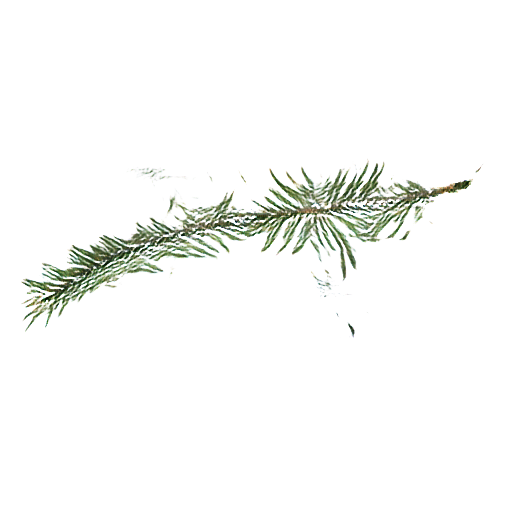
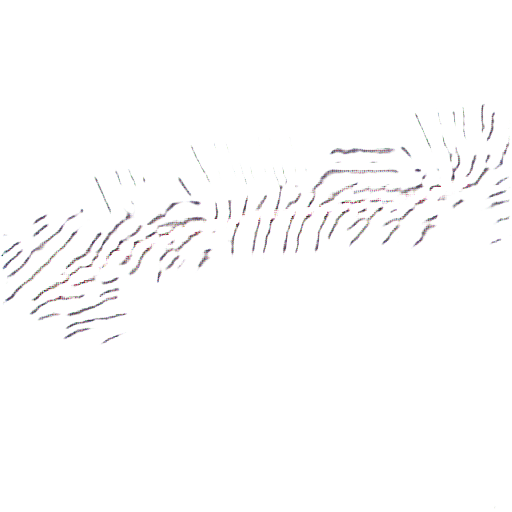
Use hatching model instead

diff --git a/index.js b/index.js
@@ -2,8 +2,8 @@ const SIZE = 512, sampleNum = 7;
 let inputCanvas, outputContainer, statusMsg, transferBtn, sampleIndex = 0, modelReady = false, isTransfering = false;
 const inputImgs = [], outputImgs = [];
 
-const edges2pikachu = pix2pix('./models/lines2branch.pict', modelLoaded);
-//const edges2pikachu = pix2pix('./models/mosse_BtoA.pict', modelLoaded);
+//const edges2pikachu = pix2pix('./models/lines2branch.pict', modelLoaded);
+const edges2pikachu = pix2pix('./models/mosse_BtoA.pict', modelLoaded);
 
 function setup() {
   // Create canvas

diff --git a/index.html b/index.html
@@ -9,10 +9,10 @@
   </head>
   <body>
     <div id="textContainer">
-      <h1>Pix2Pix Edges2Spruce</h1>
+      <h1>Pix2Pix Edges2Hatching</h1>
       <p>1. Select 'Pencil' tool to draw lines on the canvas below.</p>
       <p>2. Click the 'Transfer' button.</p>
-      <p>3. A spruce branch will appear on the right side in ~5s.</p>
+      <p>3. Hatching will appear on the right side in ~5s.</p>
       <p>4. Click the 'Clear' button to clear the canvas and draw again.</p>
     </div>
     <div id="toolContainer" class="flex flex-space-between">

diff --git a/README.md b/README.md
@@ -1,6 +1,6 @@
-# Edges2Spruce pix2pix
+# Edges2Hatching pix2pix
 
-Pix2pix model trained to generate 512 px X 512 px spruce branches! All credit goes to [yining1023](https://github.com/yining1023) and the original [pix2pix_tensorflowjs_lite repository](https://github.com/yining1023/pix2pix_tensorflowjs_lite), the only modifications made is training a new model, and accomodating 512 x 512 images in the code.
+Pix2pix model trained to generate 512 px X 512 px hatching patterns! All credit goes to [yining1023](https://github.com/yining1023) and the original [pix2pix_tensorflowjs_lite repository](https://github.com/yining1023/pix2pix_tensorflowjs_lite), the only modifications made is training a new model, and accomodating 512 x 512 images in the code.
 
 <img src="images/screenshot.png" alt="demo">
 
